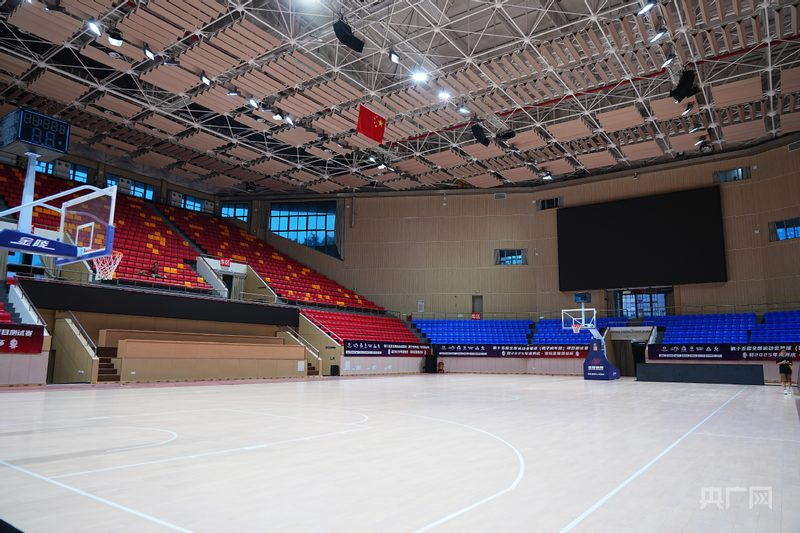
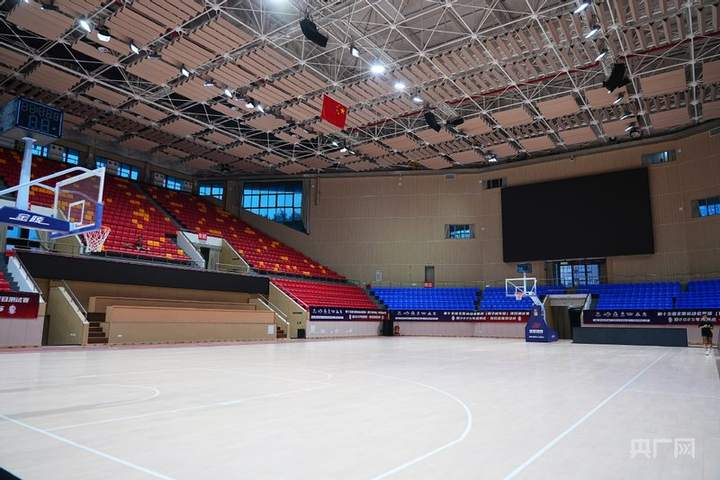
feat: reviewed photos for 17 of the 32 listings, keyed by listing id
Asked for real photos everywhere. Every picture here was taken from the
listing's own cited source — the six companies from their own websites, the
events, teams and the youth camp from the reports already cited in their
descriptions — and data/listing-images/sources.json records, per picture,
what it actually shows and which page it came from. Where the picture is of
the organisation's activity rather than the exact subject (the CBA club's
youth squads; a league game in the all-star announcement), the record says so.

Photos are keyed by listing id, so they also appear on plan cards, whose
shared snapshot strips cover fields. All images re-encoded to 720px wide.

Fifteen listings still have no verifiable photo and keep the category
illustration: three town gyms, both referee bodies, all five media accounts,
the basketball school, the village league, the 3x3 tournament, and two teams.
Nothing unrelated was put in their place.

diff --git a/utils/resource-art.js b/utils/resource-art.js
@@ -1,4 +1,24 @@
-// 资源封面：有真实照片就用照片，没有就用本分类的插画占位图（明显是分类图，不冒充实拍）。
+// 资源封面：先用这条资料自己的照片（来源见后端 data/listing-images/sources.json 与 data/venue-images/sources.json），
+// 没有照片的用本分类插画占位图（明显是分类图，不冒充实拍，也不拿无关照片顶替）。
+const PHOTO = {
+  'public-dg-dg01': '/assets/resources/venues/public-dg-dg01.jpg',
+  'public-dg-dg02': '/assets/resources/venues/public-dg-dg02.jpg',
+  'public-dg-dg03': '/assets/resources/venues/public-dg-dg03.jpg',
+  'public-dg-dg04': '/assets/resources/venues/public-dg-dg04.jpg',
+  'public-dg-dg08': '/assets/resources/venues/public-dg-dg08.jpg',
+  'public-dg-mat01': '/assets/resources/listings/public-dg-mat01.jpg',
+  'public-dg-mat02': '/assets/resources/listings/public-dg-mat02.jpg',
+  'public-dg-ren01': '/assets/resources/listings/public-dg-ren01.jpg',
+  'public-dg-ren02': '/assets/resources/listings/public-dg-ren02.jpg',
+  'public-dg-sup01': '/assets/resources/listings/public-dg-sup01.jpg',
+  'public-dg-sup02': '/assets/resources/listings/public-dg-sup02.jpg',
+  'public-dg-evt01': '/assets/resources/listings/public-dg-evt01.jpg',
+  'public-dg-evt04': '/assets/resources/listings/public-dg-evt04.jpg',
+  'public-dg-evt05': '/assets/resources/listings/public-dg-evt05.jpg',
+  'public-dg-team01': '/assets/resources/listings/public-dg-team01.jpg',
+  'public-dg-team02': '/assets/resources/listings/public-dg-team02.jpg',
+  'public-dg-coa01': '/assets/resources/listings/public-dg-coa01.jpg',
+};
 const ART = {
   venues: '/assets/resources/placeholders/venues.jpg',
   referees: '/assets/resources/placeholders/referees.jpg',
@@ -13,6 +33,7 @@ const ART = {
 // 方案页的场馆分组叫 venue，资源库叫 venues。
 function coverSrc(resource, category) {
   const own = resource && (resource.cover || resource.avatar || resource.image);
-  return own || ART[category] || ART[category + 's'] || ART.venues;
+  const id = resource && resource.id;
+  return own || PHOTO[id] || ART[category] || ART[category + 's'] || ART.venues;
 }
-module.exports = { coverSrc, ART };
+module.exports = { coverSrc, ART, PHOTO };

diff --git a/tests/backend-integration.test.js b/tests/backend-integration.test.js
@@ -289,13 +289,24 @@ test('every listed resource uses the same card, always with a picture, and never
   assert.equal(p.data.list[1].coverSrc, '/assets/resources/placeholders/venues.jpg', 'otherwise the category illustration');
   assert.ok(fs.existsSync(path.join(root, 'assets/resources/placeholders/venues.jpg')));
 
-  const { ART, coverSrc } = h.load('utils/resource-art.js');
+  const { ART, PHOTO, coverSrc } = h.load('utils/resource-art.js');
   for (const [key, file] of Object.entries(ART)) {
     assert.ok(fs.existsSync(path.join(root, file.slice(1))), file);
     assert.equal(coverSrc({}, key), file);
   }
   assert.equal(coverSrc({}, 'venue'), ART.venues, 'the plan page calls its venue section "venue"');
   assert.equal(coverSrc({ avatar: own }, 'referees'), own);
+  // Reviewed photos are keyed by listing id, so they also show on plan cards, whose snapshot strips covers.
+  for (const [id, file] of Object.entries(PHOTO)) {
+    assert.ok(fs.existsSync(path.join(root, file.slice(1))), file);
+    assert.equal(coverSrc({ id }, 'events'), file, id);
+  }
+  assert.ok(Object.keys(PHOTO).length >= 17);
+  const record = JSON.parse(fs.readFileSync(path.join(root, '..', '..', 'lanxin-bansai-backend', 'data', 'listing-images', 'sources.json'), 'utf8'));
+  for (const id of Object.keys(record.items)) {
+    assert.ok(PHOTO[id], id);
+    assert.ok(record.items[id].shows && record.items[id].page, id + ' says what it shows and where it came from');
+  }
 
   const ui = fs.readFileSync(path.join(root, 'pages/library/library.wxml'), 'utf8');
   assert.doesNotMatch(ui, /featuredItem|library-feature-card|library-feature-badge/);
